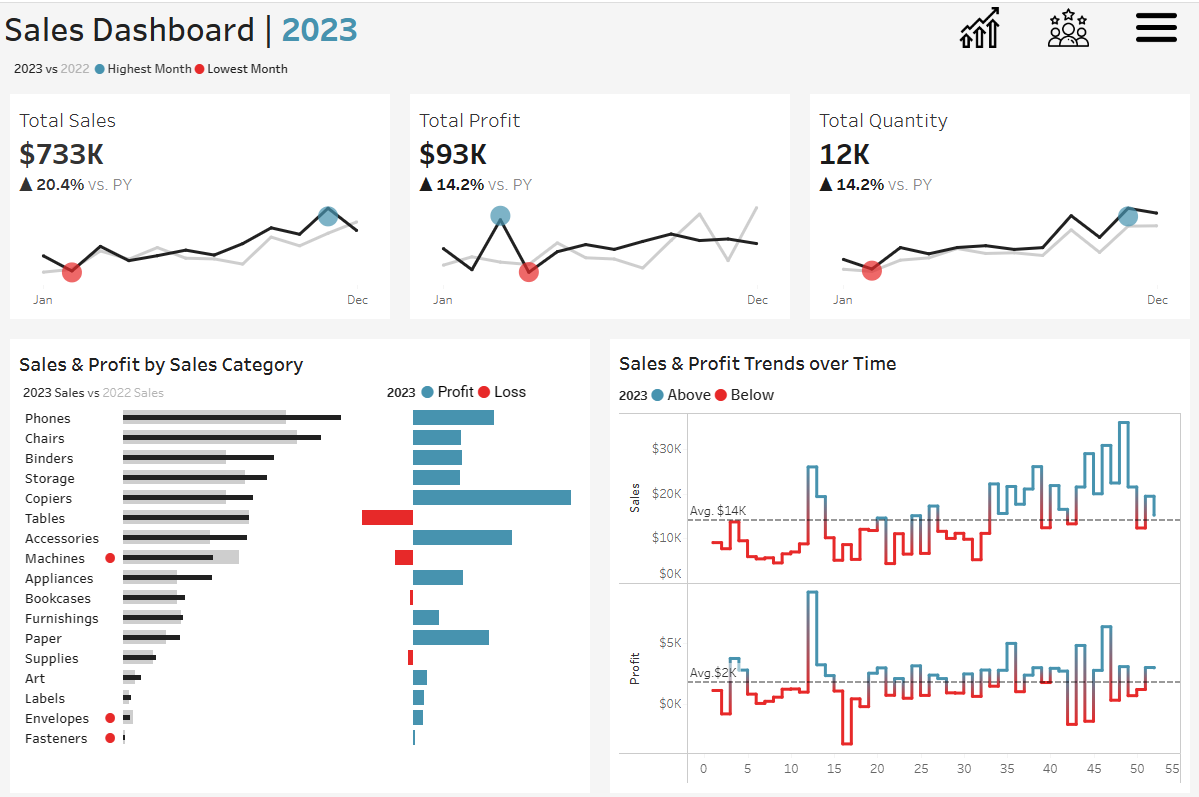
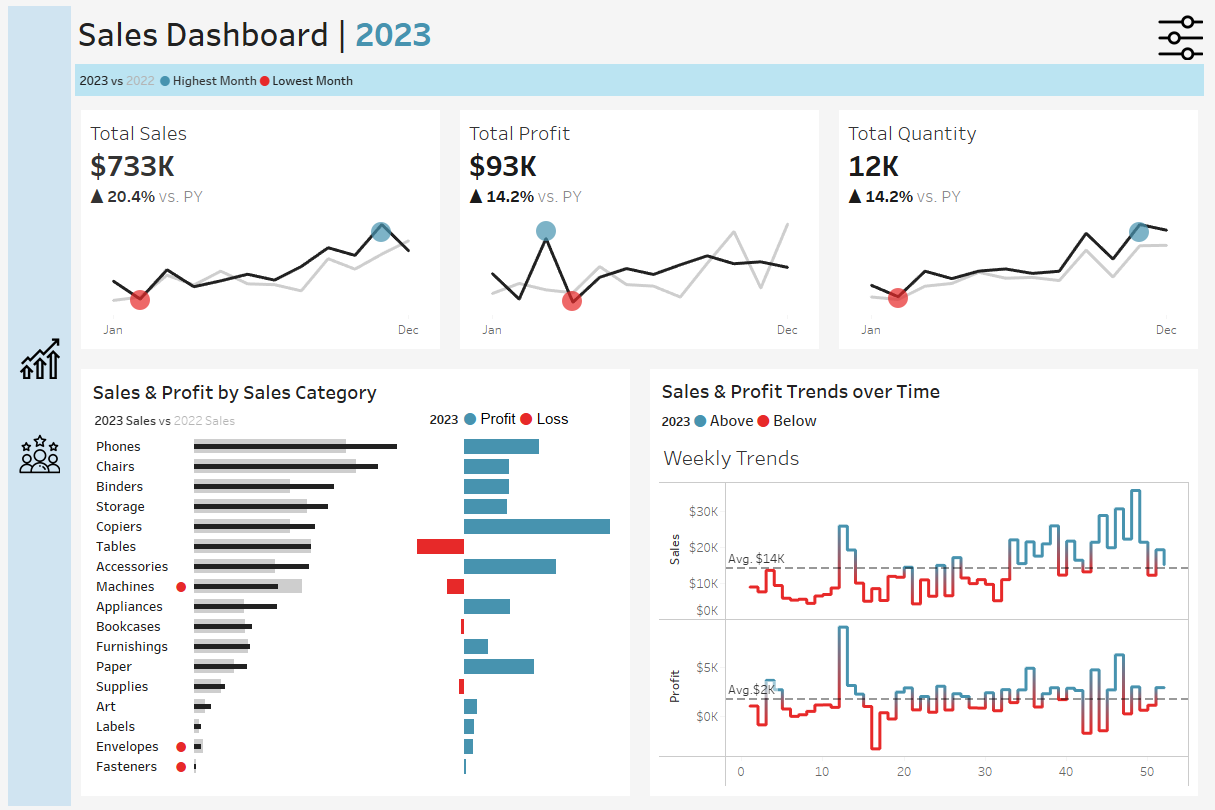
Initial commit

diff --git a/tableau-sales-dashboard.html b/tableau-sales-dashboard.html
@@ -41,10 +41,10 @@
 								<header class="major">
 									<h1>Tableau Sales<br />
 										Dashboard</h1>
-										<div class='tableauPlaceholder' id='viz1716177511214' style='position: relative'><noscript><a href='#'><img alt='Sales Dashboard ' src='https:&#47;&#47;public.tableau.com&#47;static&#47;images&#47;Sa&#47;SalesDashboard_17129983230290&#47;SalesDashboard&#47;1_rss.png' style='border: none' /></a></noscript><object class='tableauViz'  style='display:none;'><param name='host_url' value='https%3A%2F%2Fpublic.tableau.com%2F' /> <param name='embed_code_version' value='3' /> <param name='site_root' value='' /><param name='name' value='SalesDashboard_17129983230290&#47;SalesDashboard' /><param name='tabs' value='no' /><param name='toolbar' value='yes' /><param name='static_image' value='https:&#47;&#47;public.tableau.com&#47;static&#47;images&#47;Sa&#47;SalesDashboard_17129983230290&#47;SalesDashboard&#47;1.png' /> <param name='animate_transition' value='yes' /><param name='display_static_image' value='yes' /><param name='display_spinner' value='yes' /><param name='display_overlay' value='yes' /><param name='display_count' value='yes' /><param name='language' value='en-US' /></object>
-										</div>
-										<script type='text/javascript'>                    
-										var divElement = document.getElementById('viz1716177511214');                    var vizElement = divElement.getElementsByTagName('object')[0];                    if ( divElement.offsetWidth > 800 ) { vizElement.style.width='1200px';vizElement.style.height='827px';} else if ( divElement.offsetWidth > 500 ) { vizElement.style.width='1200px';vizElement.style.height='827px';} else { vizElement.style.width='100%';vizElement.style.height='2627px';}                     var scriptElement = document.createElement('script');                    scriptElement.src = 'https://public.tableau.com/javascripts/api/viz_v1.js';                    vizElement.parentNode.insertBefore(scriptElement, vizElement);                </script>								</header>
+										
+										<div class='tableauPlaceholder' id='viz1716805615072' style='position: relative'><noscript><a href='#'><img alt='Sales Dashboard ' src='https:&#47;&#47;public.tableau.com&#47;static&#47;images&#47;Ta&#47;Tableau_SalesDashboard&#47;SalesDashboard&#47;1_rss.png' style='border: none' /></a></noscript><object class='tableauViz'  style='display:none;'><param name='host_url' value='https%3A%2F%2Fpublic.tableau.com%2F' /> <param name='embed_code_version' value='3' /> <param name='path' value='views&#47;Tableau_SalesDashboard&#47;SalesDashboard?:language=en-US&amp;:embed=true&amp;:sid=' /> <param name='toolbar' value='yes' /><param name='static_image' value='https:&#47;&#47;public.tableau.com&#47;static&#47;images&#47;Ta&#47;Tableau_SalesDashboard&#47;SalesDashboard&#47;1.png' /> <param name='animate_transition' value='yes' /><param name='display_static_image' value='yes' /><param name='display_spinner' value='yes' /><param name='display_overlay' value='yes' /><param name='display_count' value='yes' /><param name='language' value='en-US' /></object></div>                <script type='text/javascript'>                    var divElement = document.getElementById('viz1716805615072');                    var vizElement = divElement.getElementsByTagName('object')[0];                    if ( divElement.offsetWidth > 800 ) { vizElement.style.width='1200px';vizElement.style.height='827px';} else if ( divElement.offsetWidth > 500 ) { vizElement.style.width='1200px';vizElement.style.height='827px';} else { vizElement.style.width='100%';vizElement.style.height='2227px';}                     var scriptElement = document.createElement('script');                    scriptElement.src = 'https://public.tableau.com/javascripts/api/viz_v1.js';                    vizElement.parentNode.insertBefore(scriptElement, vizElement);                </script>
+								
+								</header>
 								<h2>Tableau User Story | Sales Performance</h2>
 								<hr />
 								<h4>Introduction</h4>
